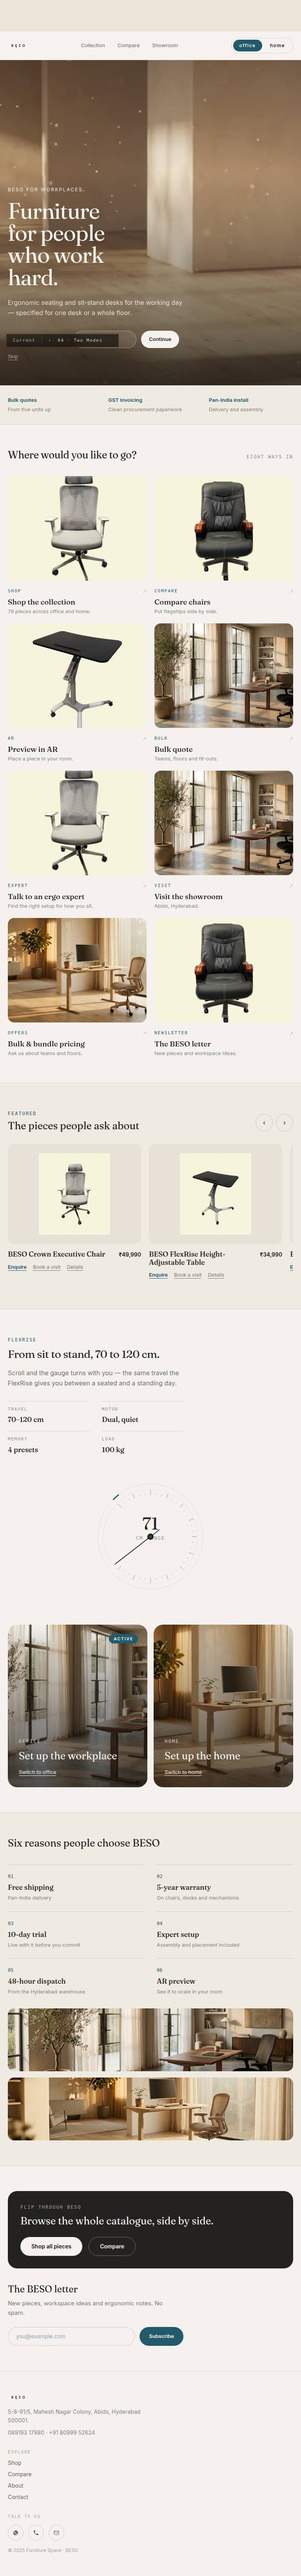
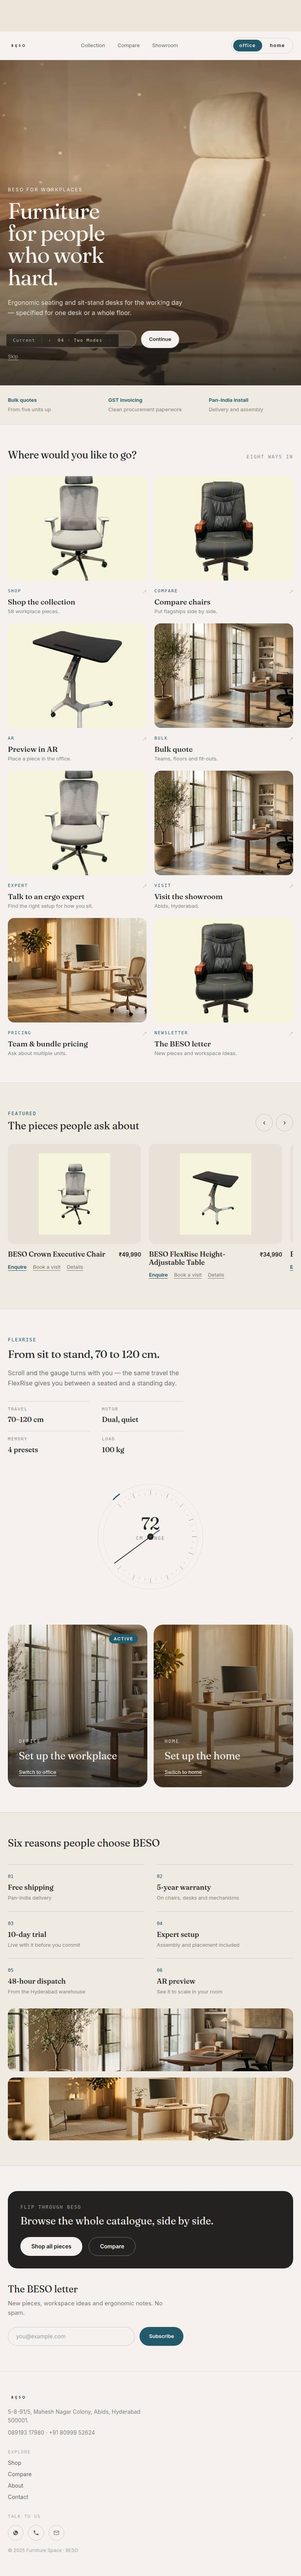
feat(concept): Two Modes — mode-specific entry tiles (8 per mode)

Changed region(s): [[0.0, 0.0, 1.0, 0.1555]]

diff --git a/src/components/designs/d04-twomodes/index.tsx b/src/components/designs/d04-twomodes/index.tsx
@@ -58,16 +58,28 @@ const MODES = {
   },
 } as const;
 
-const tiles = [
-  {label: 'Shop', title: 'Shop the collection', caption: '79 pieces across office and home.', img: '/assets/images/products/executive-chair-07.jpg', href: '/products'},
-  {label: 'Compare', title: 'Compare chairs', caption: 'Put flagships side by side.', img: '/assets/images/products/executive-chair-04.jpg', href: '/compare'},
-  {label: 'AR', title: 'Preview in AR', caption: 'Place a piece in your room.', img: '/assets/images/products/height-table-01.jpg', href: '#ar'},
-  {label: 'Bulk', title: 'Bulk quote', caption: 'Teams, floors and fit-outs.', img: '/assets/images/d01-hero.jpg', href: 'https://wa.me/918099952624?text=Hi%20BESO!%20I%27d%20like%20a%20bulk%20quote.'},
-  {label: 'Expert', title: 'Talk to an ergo expert', caption: 'Find the right setup for how you sit.', img: '/assets/images/products/executive-chair-07.jpg', href: 'https://wa.me/918099952624?text=Hi%20BESO!%20I%27d%20like%20ergonomic%20advice.'},
-  {label: 'Visit', title: 'Visit the showroom', caption: 'Abids, Hyderabad.', img: '/assets/images/d01-hero.jpg', href: '#showroom'},
-  {label: 'Offers', title: 'Bulk & bundle pricing', caption: 'Ask us about teams and floors.', img: '/assets/images/editorial-workspace.jpg', href: 'https://wa.me/918099952624?text=Hi%20BESO!%20I%27d%20like%20pricing%20for%20multiple%20units.'},
-  {label: 'Newsletter', title: 'The BESO letter', caption: 'New pieces and workspace ideas.', img: '/assets/images/products/executive-chair-04.jpg', href: '#newsletter'},
-];
+const TILES: Record<Mode, {label: string; title: string; caption: string; img: string; href: string}[]> = {
+  office: [
+    {label: 'Shop', title: 'Shop the collection', caption: '58 workplace pieces.', img: '/assets/images/products/executive-chair-07.jpg', href: '/products'},
+    {label: 'Compare', title: 'Compare chairs', caption: 'Put flagships side by side.', img: '/assets/images/products/executive-chair-04.jpg', href: '/compare'},
+    {label: 'AR', title: 'Preview in AR', caption: 'Place a piece in the office.', img: '/assets/images/products/height-table-01.jpg', href: '#ar'},
+    {label: 'Bulk', title: 'Bulk quote', caption: 'Teams, floors and fit-outs.', img: '/assets/images/d01-hero.jpg', href: 'https://wa.me/918099952624?text=Hi%20BESO!%20I%27d%20like%20a%20bulk%20quote.'},
+    {label: 'Expert', title: 'Talk to an ergo expert', caption: 'Find the right setup for how you sit.', img: '/assets/images/products/executive-chair-07.jpg', href: 'https://wa.me/918099952624?text=Hi%20BESO!%20I%27d%20like%20ergonomic%20advice.'},
+    {label: 'Visit', title: 'Visit the showroom', caption: 'Abids, Hyderabad.', img: '/assets/images/d01-hero.jpg', href: '#showroom'},
+    {label: 'Pricing', title: 'Team & bundle pricing', caption: 'Ask about multiple units.', img: '/assets/images/editorial-workspace.jpg', href: 'https://wa.me/918099952624?text=Hi%20BESO!%20I%27d%20like%20pricing%20for%20multiple%20units.'},
+    {label: 'Newsletter', title: 'The BESO letter', caption: 'New pieces and workspace ideas.', img: '/assets/images/products/executive-chair-04.jpg', href: '#newsletter'},
+  ],
+  home: [
+    {label: 'Shop', title: 'Shop the collection', caption: '21 home pieces.', img: '/assets/images/products/dining-chair-01.jpg', href: '/products'},
+    {label: 'Compare', title: 'Compare favourites', caption: 'Shortlist before you decide.', img: '/assets/images/products/executive-chair-04.jpg', href: '/compare'},
+    {label: 'AR', title: 'Preview in AR', caption: 'See it to scale at home.', img: '/assets/images/products/height-table-01.jpg', href: '#ar'},
+    {label: 'Dining', title: 'Dining & living', caption: 'Tables, chairs and stools.', img: '/assets/images/products/dining-chair-01.jpg', href: '/products'},
+    {label: 'Expert', title: 'Talk to a designer', caption: 'Furnish a room, not just a desk.', img: '/assets/images/editorial-workspace.jpg', href: 'https://wa.me/918099952624?text=Hi%20BESO!%20I%27d%20like%20help%20furnishing%20a%20room.'},
+    {label: 'Visit', title: 'Visit the showroom', caption: 'Abids, Hyderabad.', img: '/assets/images/d01-hero.jpg', href: '#showroom'},
+    {label: 'Delivery', title: 'Delivery & setup', caption: 'Assembled and placed for you.', img: '/assets/images/editorial-workspace.jpg', href: 'https://wa.me/918099952624?text=Hi%20BESO!%20A%20question%20about%20delivery%20and%20setup.'},
+    {label: 'Newsletter', title: 'The BESO letter', caption: 'New pieces and home ideas.', img: '/assets/images/products/executive-chair-04.jpg', href: '#newsletter'},
+  ],
+};
 
 const featured = [crown, flexrise, prestige].filter(Boolean) as Product[];
 
@@ -250,8 +262,8 @@ export default function DesignTwoModes() {
           <h2 className="text-[clamp(26px,3.2vw,40px)] font-light leading-[1.05] tracking-[-0.015em]" style={{fontFamily: DISPLAY, fontWeight: 380}}>Where would you like to go?</h2>
           <span className="text-[12px] uppercase tracking-[0.16em] text-[#232220]/50" style={{fontFamily: MONO}}>Eight ways in</span>
         </div>
-        <div className="mt-10 grid gap-5 sm:grid-cols-2 lg:grid-cols-4">
-          {tiles.map((t, i) => (
+        <div key={mode} className="tm-swap mt-10 grid gap-5 sm:grid-cols-2 lg:grid-cols-4">
+          {TILES[mode].map((t, i) => (
             <Reveal key={t.title} delay={(i % 4) * 70} className={i % 2 === 1 ? 'lg:mt-10' : ''}>
               <Link href={t.href} target={t.href.startsWith('http') ? '_blank' : undefined} rel={t.href.startsWith('http') ? 'noopener noreferrer' : undefined} className="group block">
                 <div className="overflow-hidden rounded-2xl bg-[#E7E1D8]">
